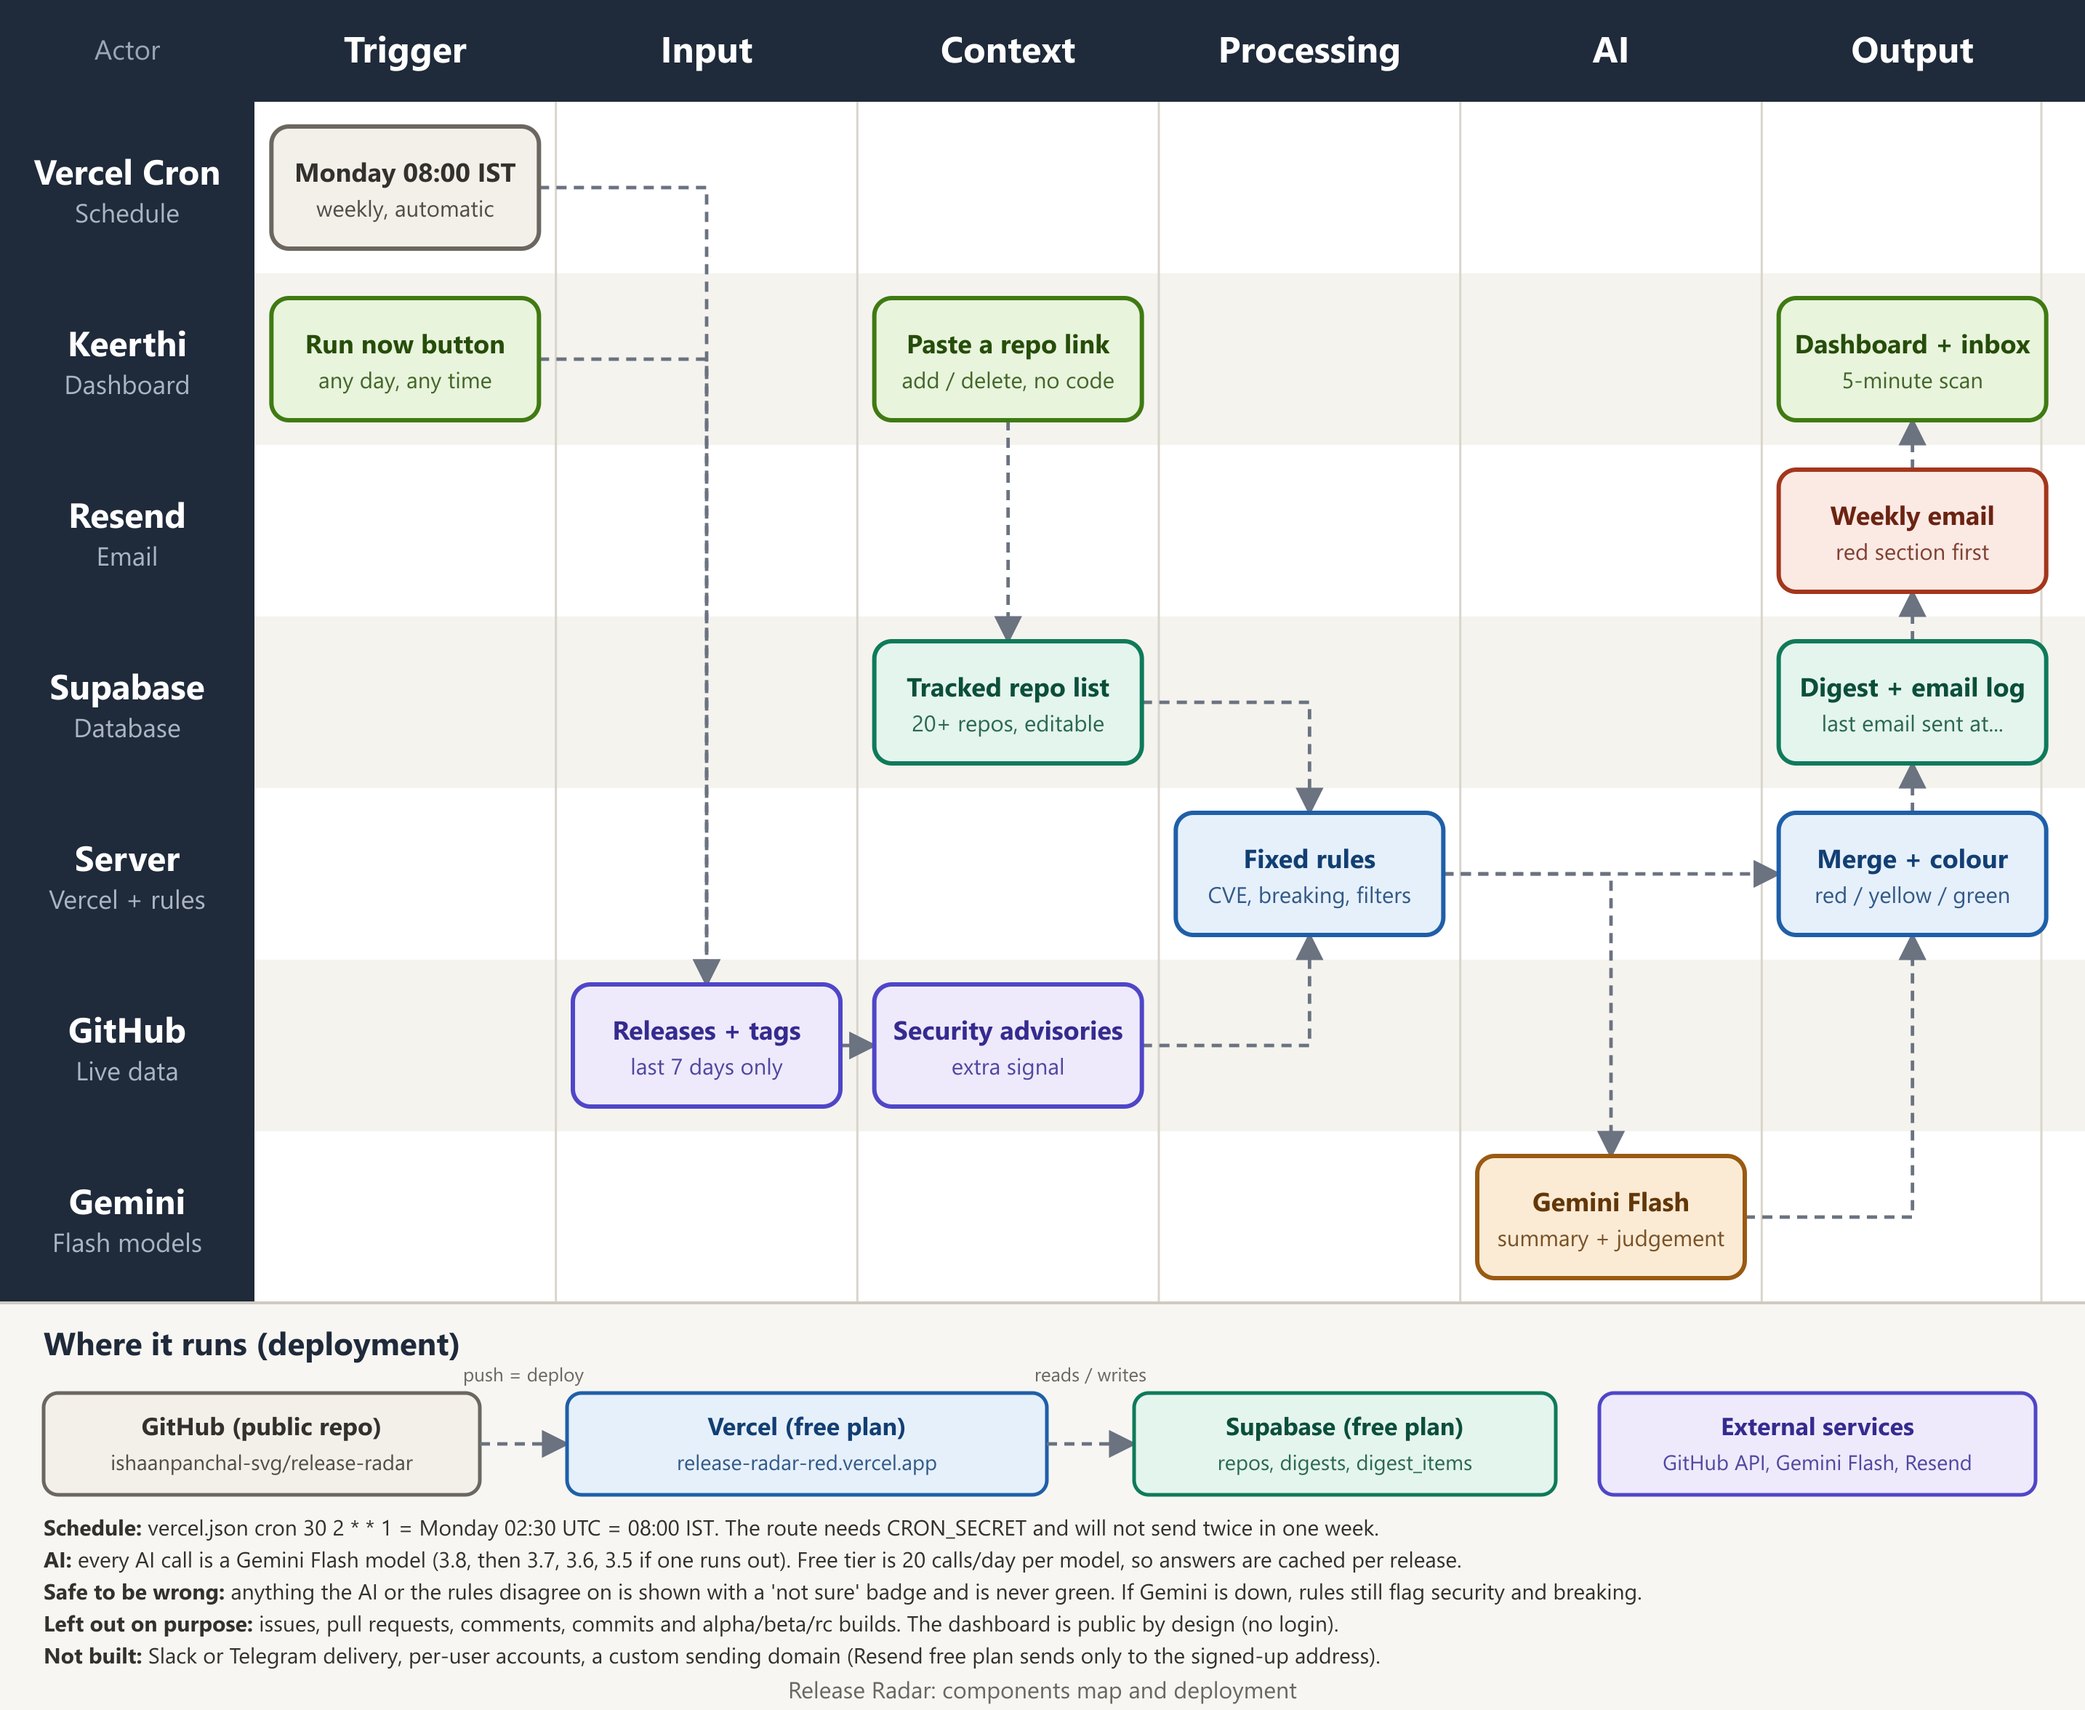
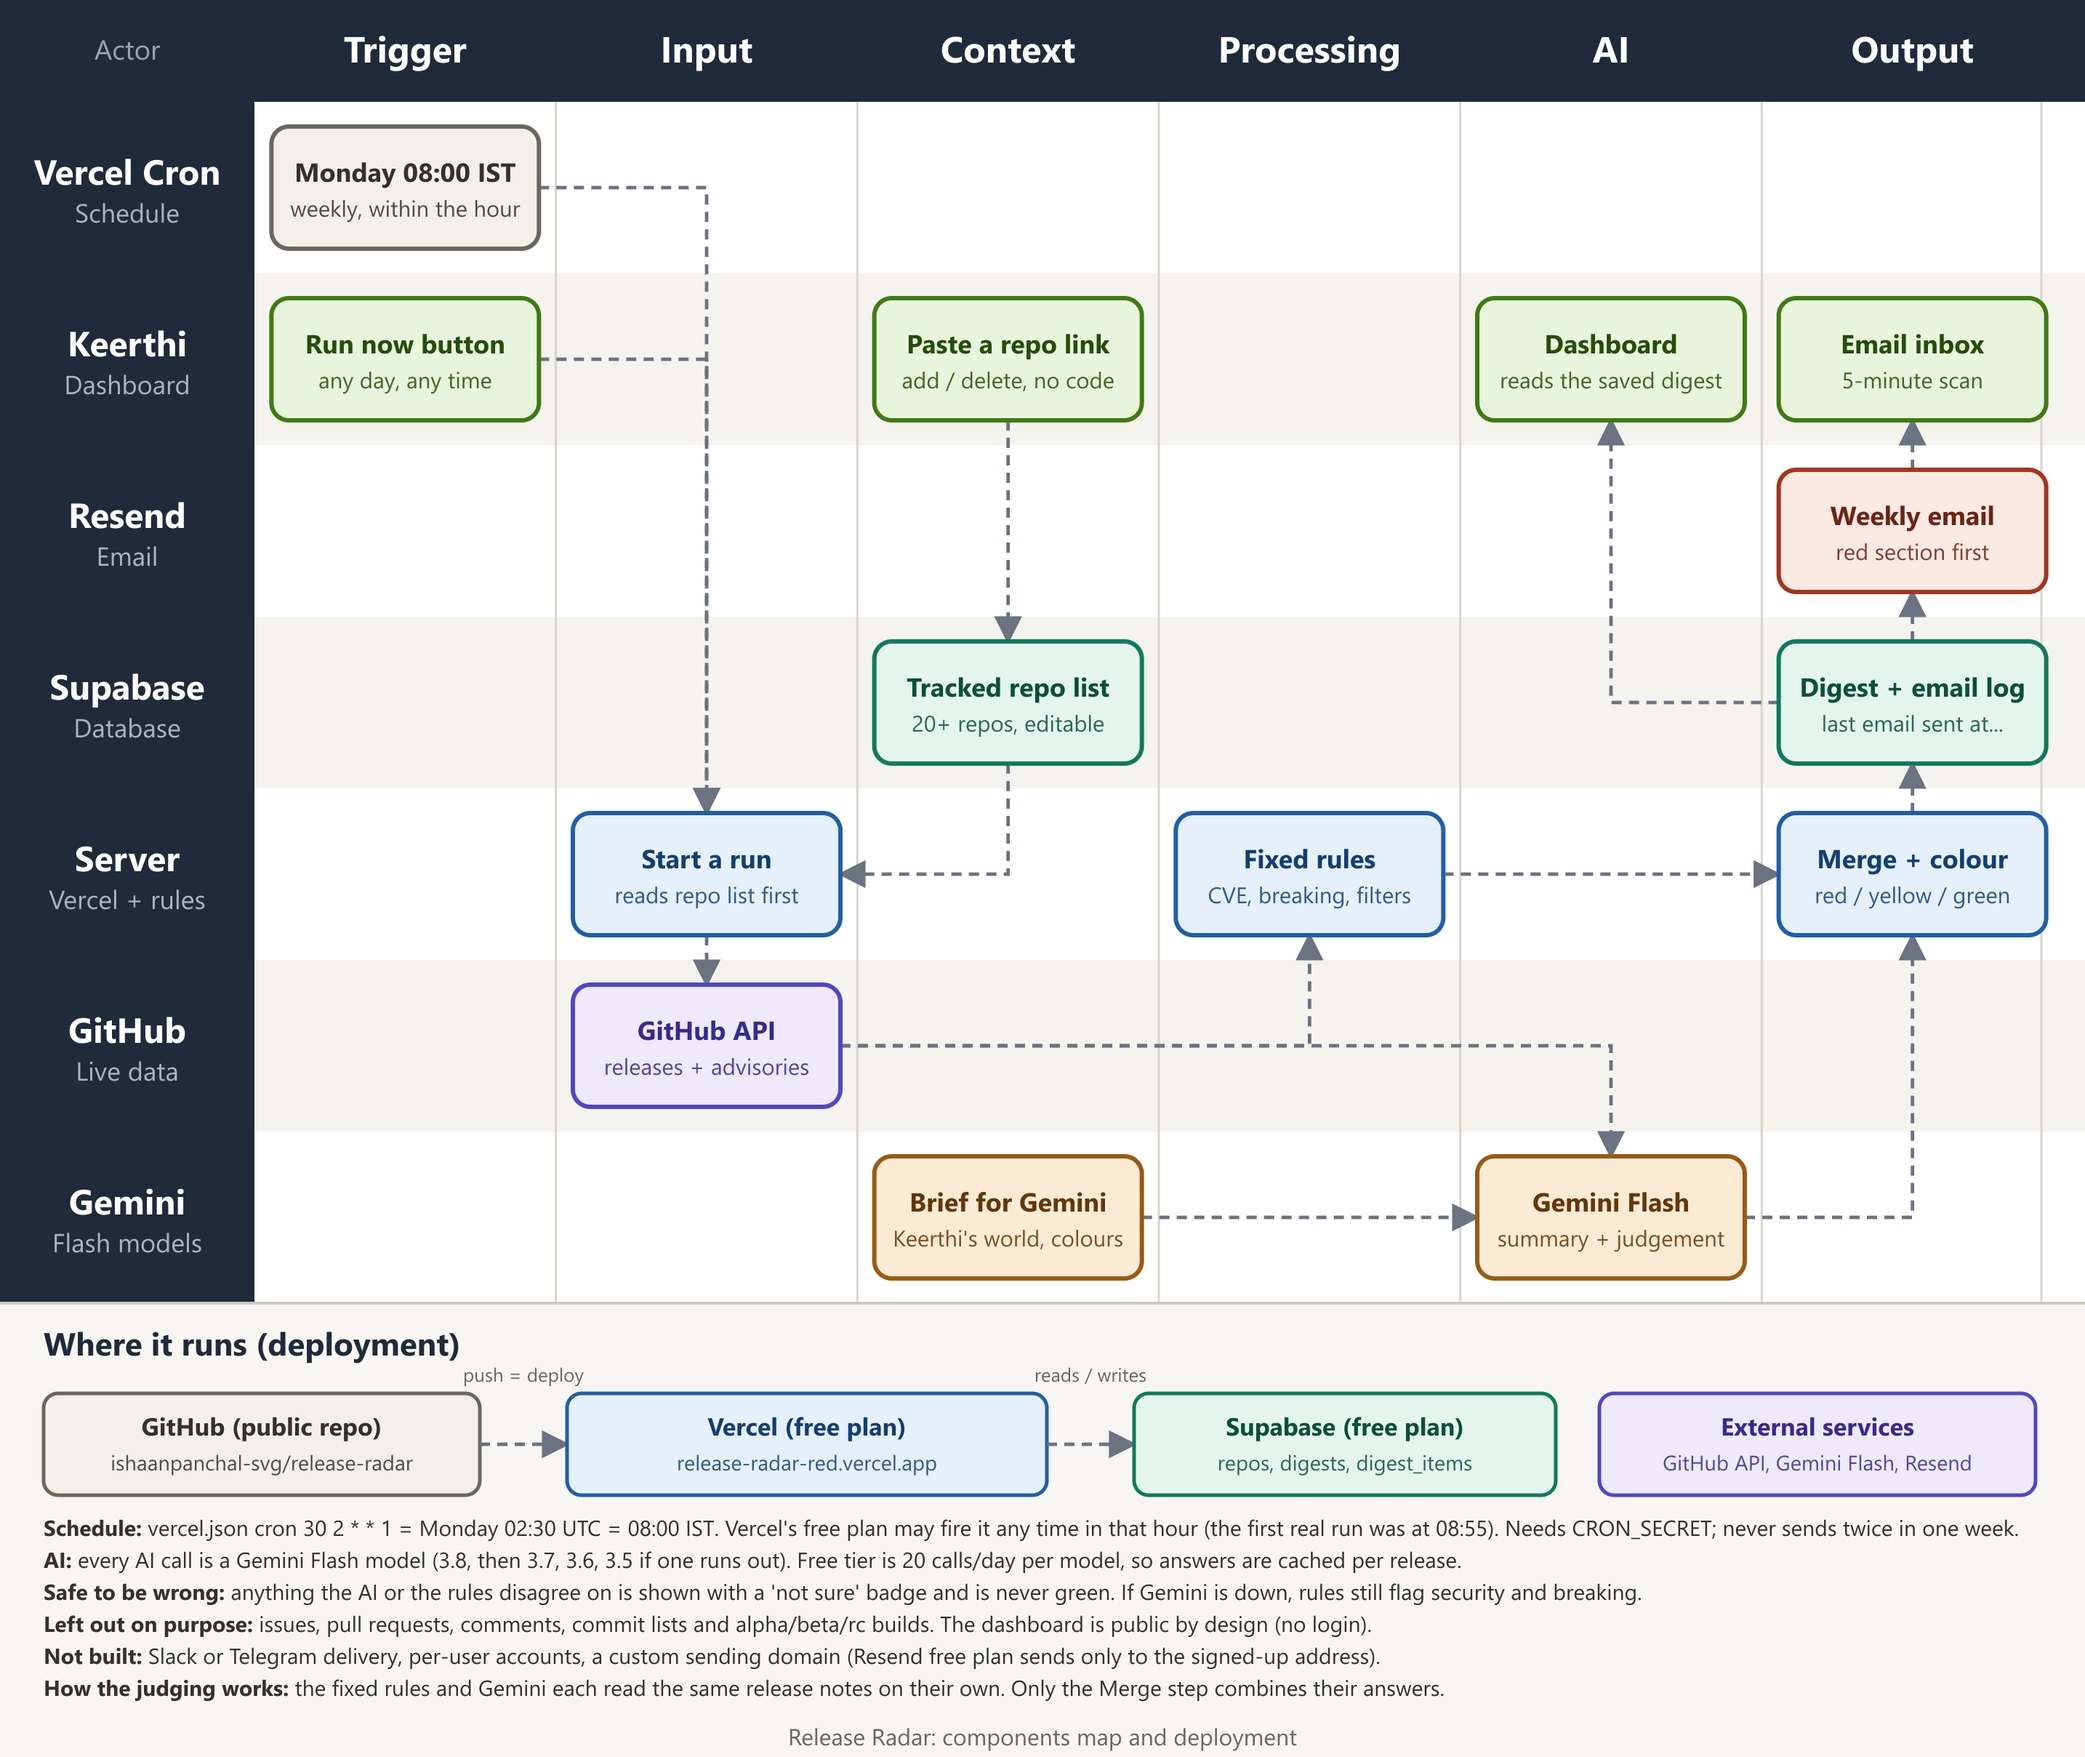
Correct the Components Map flow to match the code
Triggers now start the server (which reads the repo list, then calls GitHub). Fixed rules
and Gemini read the same notes in parallel and only the merge step combines them. The
dashboard reads from the database. Schedule note explains the one-hour window.

diff --git a/docs/COMPONENTS_MAP.md b/docs/COMPONENTS_MAP.md
@@ -6,12 +6,12 @@ Trigger → Input → Context → Processing → AI → Output. The picture is i
 
 | Stage | What it is | In this build |
 |---|---|---|
-| **Trigger** | Two ways to start a digest | (1) Vercel Cron, Monday 08:00 IST (`vercel.json`: `30 2 * * 1` UTC) calling `/api/cron`, which requires `CRON_SECRET` and refuses to send twice in one week. (2) The **Run now** button on the dashboard calling `/api/run` (look-back 7/14/30/90 days, 45-second cooldown). |
+| **Trigger** | Two ways to start a digest | (1) Vercel Cron, Monday 08:00 IST (`vercel.json`: `30 2 * * 1` UTC; the free plan may fire it any time within that hour, and the first real run was at 08:55) calling `/api/cron`, which requires `CRON_SECRET` and refuses to send twice in one week. Both triggers wake the server, which starts the run by reading the tracked repo list and then calling GitHub. (2) The **Run now** button on the dashboard calling `/api/run` (look-back 7/14/30/90 days, 45-second cooldown). |
 | **Input** | Live data, fetched fresh on every run | GitHub REST API: releases published in the window for every tracked repo (paginated, drafts skipped); tags as a fallback for projects that never publish Releases; published security advisories as an extra signal. Pre-releases (alpha, beta, rc, canary) are counted but left out. Issues, pull requests, comments and commits are never requested. |
 | **Context** | What the system needs to know to judge a release | The **tracked repo list** in Supabase (`repos` table, edited from the dashboard by pasting a link: validated against GitHub, duplicates and typos rejected). The fixed rule set in `src/lib/rules.ts` (what counts as security or breaking). The system prompt in `src/lib/gemini.ts` (who Keerthi is, what red / yellow / green mean, treat notes as untrusted). Previous AI answers cached by release (`digest_items.ai_raw`). |
-| **Processing** | Plain code around the AI | `rules.ts` runs on every release regardless of the AI: CVE and GHSA ids, "security fix", attack-class words, BREAKING, dropped support, major version. `github.ts` matches an advisory to a release only if the notes name it or the release is the patched version. `classify.ts` merges rules and AI: security or breaking from either means red; any disagreement, empty notes, low confidence or AI failure means "not sure", and a not-sure item is never green. `digest.ts` groups by repo, builds the headline, saves everything. |
+| **Processing** | Plain code around the AI | The fixed rules and Gemini each read the same release notes independently (Gemini does not receive the rules' answer); only the merge step combines them. `rules.ts` runs on every release regardless of the AI: CVE and GHSA ids, "security fix", attack-class words, BREAKING, dropped support, major version. `github.ts` matches an advisory to a release only if the notes name it or the release is the patched version. `classify.ts` merges rules and AI: security or breaking from either means red; any disagreement, empty notes, low confidence or AI failure means "not sure", and a not-sure item is never green. `digest.ts` groups by repo, builds the headline, saves everything. |
 | **AI** | The part that needs judgement | **Gemini Flash only** (`gemini-3.8-flash`, then `3.7-flash`, `3.6-flash`, `3.5-flash` only if the earlier one has used its free daily quota; the run on 12 Oct used `gemini-3.7-flash`). It reads each release's notes and returns, as validated JSON: a 1 to 2 sentence summary, up to 4 key changes, `is_security`, `is_breaking`, importance, confidence, and verbatim quotes as evidence. No Claude API anywhere. |
-| **Output** | What Keerthi actually receives | **Dashboard** (public URL): "Hi Keerthi", last email sent (date, time), next scheduled email, colour-coded change log (red: needs attention now, yellow: worth a look, green: routine), "not sure" badges and a filter for them, "why this colour?" evidence, quiet repos, past digests with a "Show me" expander. **Email** via Resend: same content, red section first, grouped by repo; the send result and time are written back to the database so the dashboard can show them. |
+| **Output** | What Keerthi actually receives | **Dashboard** (public URL, reads the saved digest straight from the database): "Hi Keerthi", last email sent (date, time), next scheduled email, colour-coded change log (red: needs attention now, yellow: worth a look, green: routine), "not sure" badges and a filter for them, "why this colour?" evidence, quiet repos, past digests with a "Show me" expander. **Email** via Resend: same content, red section first, grouped by repo; the send result and time are written back to the database so the dashboard can show them. |
 
 ## Why these choices
 
